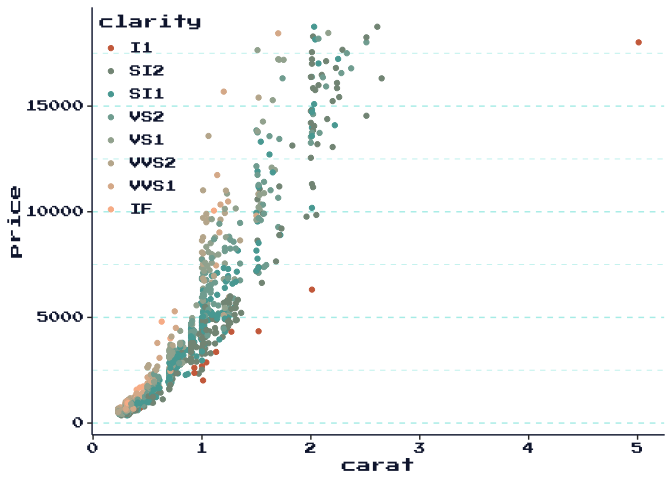
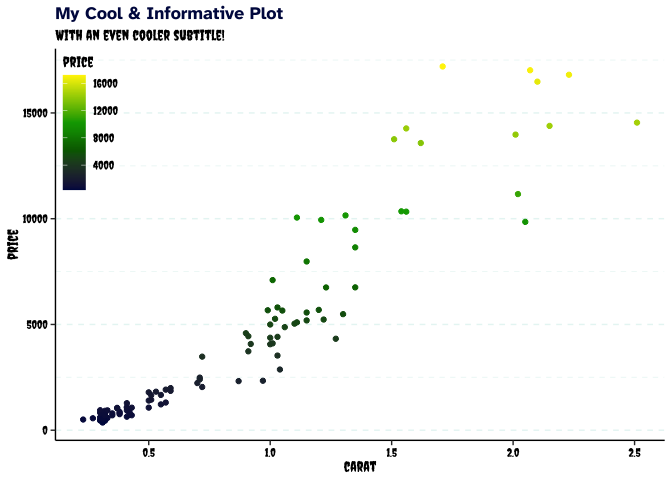
updated readme

diff --git a/README.md b/README.md
@@ -49,17 +49,18 @@ default ggplot theme.
 
 ## Basic Usage
 
-First, here’s how a standard ggplot2 looks:
+First, here’s the look of a standard ggplot:
 
 ``` r
 library(ggplot2)
 library(dplyr)
 
-set.seed(1)
-d <- diamonds |> slice_sample(n=1000)
-ggplot(d)+
-  geom_point(aes(x=carat,y=price,color=cut))+
-  ggtitle("My Cool Title")
+d <- diamonds |> slice_sample(n = 100)
+p <- ggplot(d) +
+  geom_point(aes(x = carat, y = price, color = price)) +
+  ggtitle("My Cool & Informative Plot",
+          subtitle = "With an even cooler subtitle!")
+p
 ```
 
 <img src="man/figures/README-example-1.png" width="100%" />
@@ -71,8 +72,7 @@ in how the plot looks:
 library(ggchameleon)
 #> Installing Fonts
 #> Installing Fonts
-ggplot(d)+
-  geom_point(aes(x=carat,y=price,color=clarity))
+p
 ```
 
 <img src="man/figures/README-add ggchameleon-1.png" width="100%" />
@@ -81,22 +81,22 @@ But the real magic of ggchameleon comes when we wish to alter the
 default ggchameleon parameters:
 
 ``` r
-ggchameleon:::edit_the_main_palette(main = "#FF0000")
-ggplot(d)+
-  geom_point(aes(x=carat,y=price,color=clarity))
+ggchameleon:::edit_the_main_palette(intermediate = "darkgreen")
+p
 ```
 
 <img src="man/figures/README-altering ggchameleon-1.png" width="100%" />
 
-`main` in the above example is the main color used throughout the plot
-and in the title text’s color. We can edit any of the colors, but we can
-also edit any of the fonts, as seen below:
+Notice that without having to specify a different
+`scale_color_continuous`, we were able to drastically change the colors
+of the legend. This is where ggchameleon does the heavy lifting. It
+finds the parts of your theme that use the `intermediate` color and
+updates all such instances to use the new color.
 
 ``` r
-ggchameleon:::edit_the_fonts(sans="Press Start 2P")
+ggchameleon:::edit_the_fonts(sans="Creepster")
 #> Installing Fonts
-ggplot(d)+
-  geom_point(aes(x=carat,y=price,color=clarity))
+p
 ```
 
 <img src="man/figures/README-editing fonts-1.png" width="100%" />
@@ -105,19 +105,47 @@ We can also edit elements of the theme that we apply to each plot by
 default, for example:
 
 ``` r
+ggchameleon:::edit_the_theme(legend.position = "bottom",
+                             legend.direction = "horizontal")
 
-ggchameleon:::edit_the_theme(legend.position = "None")
-
-ggplot(d)+
-  geom_point(aes(x=carat,y=price,color=clarity))
+p
 ```
 
 <img src="man/figures/README-editing theme-1.png" width="100%" />
 
+As you can see, it does not take very much work to make a very
+customized, but very ugly theme! If we wish to burn our current theme to
+the ground and start anew, ggchameleon provides two useful functions:
+
+``` r
+ggchameleon:::huemint_randomize()
+```
+
+<img src="man/figures/README-huemint and font shuffle-1.png" width="100%" />
+
+``` r
+ggchameleon:::font_shuffle()
+#> Installing Fonts
+
+p
+```
+
+<img src="man/figures/README-huemint and font shuffle-2.png" width="100%" />
+
+Your mileage may vary, especially with the font randomization, but
+ggchameleon does its best to make sure that these new random themes
+balance novelty with usability. Infinite shoutouts go to the teams at
+[Google Fonts](https://fonts.google.com/) for their fonts and
+[Huemint](https://huemint.com/) for their AI-generated color palettes
+respectively.
+
+## Wrapping Up For Next Time
+
 Now that we’ve edited the theming to our heart’s content, we can save
 these modifications for next time we use this project. If we run the
 following, we will save a file, `chameleon.yml` which will be
-automatically applied the next time we load this project.
+automatically applied the next time we load this project and use
+`library(ggchameleon)`.
 
 ``` r
 ggchameleon:::save_current_theme()
